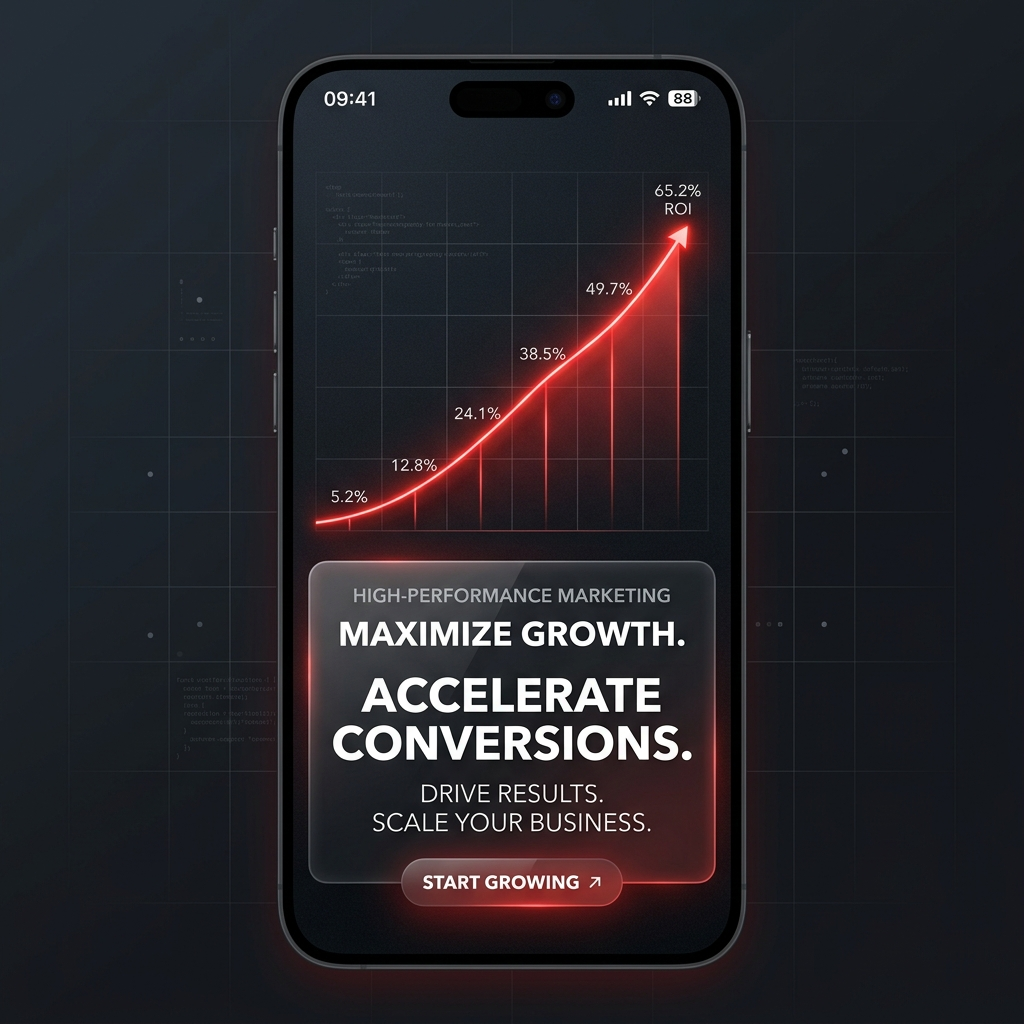
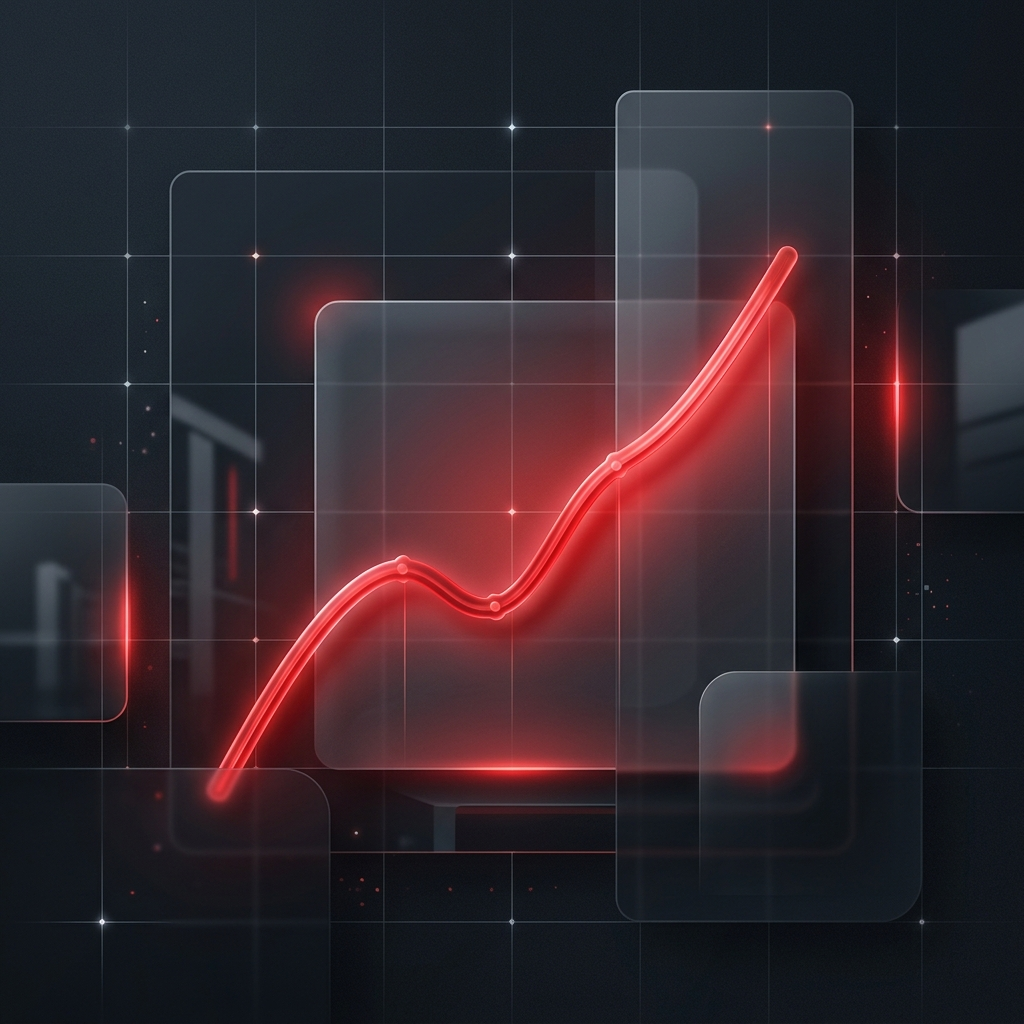
feat: implement interactive project portfolio component with scroll animations and image previews

diff --git a/src/components/Portfolio.tsx b/src/components/Portfolio.tsx
@@ -313,7 +313,7 @@ export default function Portfolio({ limit, isSubpage = false, onBack, onViewAll,
         </motion.div>
 
         {/* Home page "View more of our work" button OR subpage project CTA */}
-        {!isSubpage && limit && filteredProjects.length > limit ? (
+        {!isSubpage ? (
           <div className="mt-16 text-center">
             <button
               onClick={onViewAll}